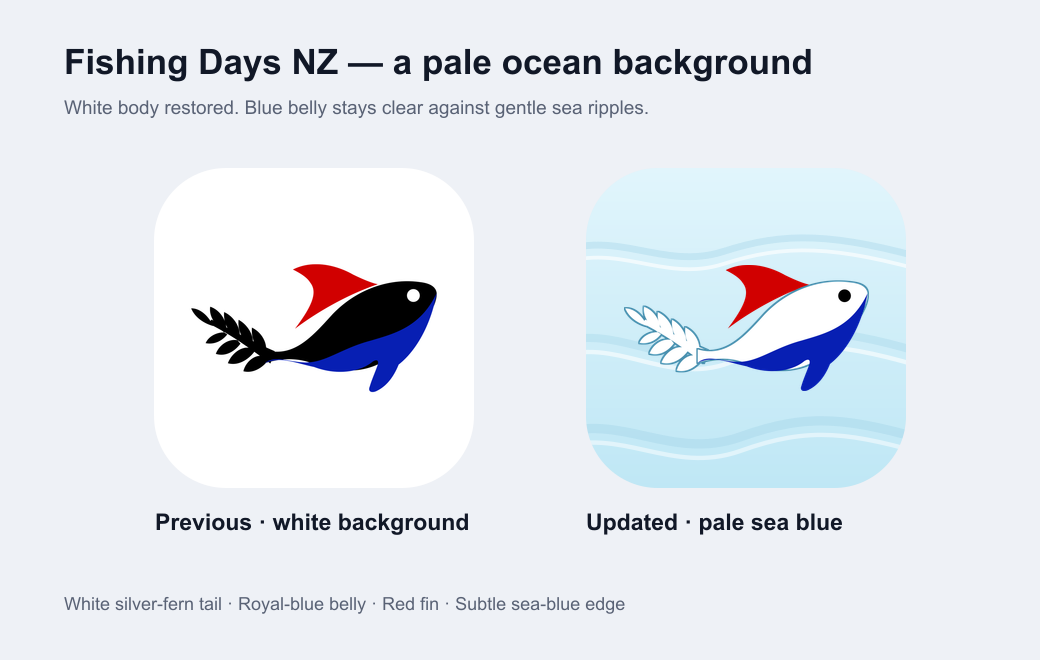
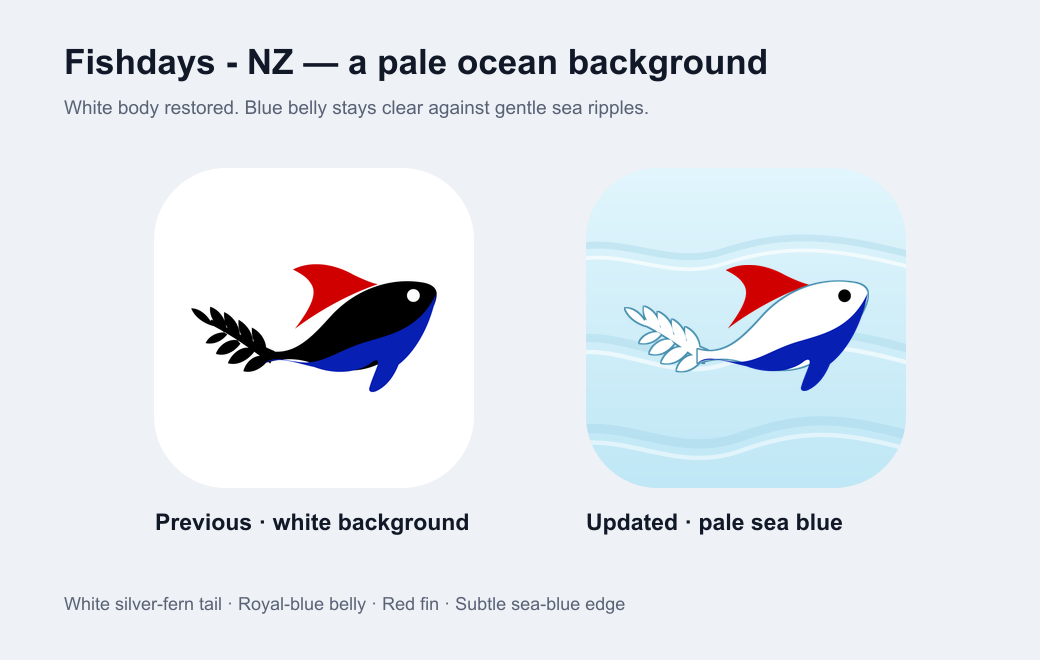
Rename app to Fishdays - NZ

Changed region(s): [[0.1231, 0.0606, 0.8, 0.1212]]

diff --git a/server/fishial-proxy/src/privacy.ts b/server/fishial-proxy/src/privacy.ts
@@ -1,6 +1,6 @@
 import type { Env } from "./index";
 
-const genericNotice = "If a Fishing Days NZ account uses that email, a deletion link will be sent. Check your inbox, including spam. The link expires in 24 hours.";
+const genericNotice = "If a Fishdays - NZ account uses that email, a deletion link will be sent. Check your inbox, including spam. The link expires in 24 hours.";
 const deletionDetails = "Deletion permanently removes your profile, sign-in connections, sessions, feedback and account-linked usage records from our live database. You cannot undo it. It does not delete your Google or Apple account or photos saved on your phone. Cloudflare database recovery copies can retain deleted records for up to 30 days. Provider security and abuse-prevention records follow their own retention rules.";
 
 function escapeHtml(value: string): string {
@@ -8,7 +8,7 @@ function escapeHtml(value: string): string {
 }
 
 function page(title: string, body: string, status = 200): Response {
-  return new Response(`<!doctype html><html lang="en"><head><meta charset="utf-8"><meta name="viewport" content="width=device-width,initial-scale=1"><title>${escapeHtml(title)} · Fishing Days NZ</title><style>body{font:17px/1.6 system-ui,sans-serif;color:#172235;background:#f6f8fc;margin:0;padding:32px 18px}main{max-width:760px;margin:auto;background:white;padding:28px;border-radius:16px}h1,h2{line-height:1.3}a{color:#315de0}input,button{font:inherit;padding:12px;border-radius:8px;box-sizing:border-box}input[type=email]{display:block;width:100%;margin:8px 0 20px;border:1px solid #8490a4}button{background:#315de0;color:white;border:0;cursor:pointer}label{display:block;margin:16px 0}nav{display:flex;gap:24px;flex-wrap:wrap}small{color:#536179}</style></head><body><main><nav><a href="/privacy">Privacy policy</a><a href="/delete-account">Delete account</a></nav><h1>${escapeHtml(title)}</h1>${body}</main></body></html>`, {
+  return new Response(`<!doctype html><html lang="en"><head><meta charset="utf-8"><meta name="viewport" content="width=device-width,initial-scale=1"><title>${escapeHtml(title)} · Fishdays - NZ</title><style>body{font:17px/1.6 system-ui,sans-serif;color:#172235;background:#f6f8fc;margin:0;padding:32px 18px}main{max-width:760px;margin:auto;background:white;padding:28px;border-radius:16px}h1,h2{line-height:1.3}a{color:#315de0}input,button{font:inherit;padding:12px;border-radius:8px;box-sizing:border-box}input[type=email]{display:block;width:100%;margin:8px 0 20px;border:1px solid #8490a4}button{background:#315de0;color:white;border:0;cursor:pointer}label{display:block;margin:16px 0}nav{display:flex;gap:24px;flex-wrap:wrap}small{color:#536179}</style></head><body><main><nav><a href="/privacy">Privacy policy</a><a href="/delete-account">Delete account</a></nav><h1>${escapeHtml(title)}</h1>${body}</main></body></html>`, {
     status,
     headers: {
       "content-type": "text/html; charset=utf-8", "cache-control": "no-store",
@@ -24,9 +24,9 @@ export function privacyPolicy(env: Env): Response {
   if (!name || !email || !/^[^\s@]+@[^\s@]+\.[^\s@]+$/.test(email)) {
     return page("Privacy policy unavailable", "<p>The publisher must configure a developer name and support email before this service is released.</p>", 503);
   }
-  return page("Fishing Days NZ privacy policy", `
+  return page("Fishdays - NZ privacy policy", `
     <p><small>Updated 5 October 2026</small></p>
-    <p>Fishing Days NZ is operated by ${escapeHtml(name)}, an individual developer. For privacy questions, access or correction requests, or help deleting data, contact <a href="mailto:${escapeHtml(email)}">${escapeHtml(email)}</a>.</p>
+    <p>Fishdays - NZ is operated by ${escapeHtml(name)}, an individual developer. For privacy questions, access or correction requests, or help deleting data, contact <a href="mailto:${escapeHtml(email)}">${escapeHtml(email)}</a>.</p>
     <h2>Accounts and feedback</h2><p>We collect your email, optional display name, country code, account identifier, sign-in connections and feedback to provide your account and respond to problems. Passwords are stored as salted hashes. Google or Apple sign-in supplies a provider identifier, verified email and, when available, your name. We do not receive your Google or Apple password. Cloudflare hosts the API and database; Resend sends account confirmation and deletion emails.</p>
     <h2>Location, weather and maps</h2><p>Location access is optional and used while you use the app to find nearby places, tides and rules. You can choose places manually or revoke access in Android settings. Coordinates for places you view or search are sent to Open-Meteo for weather and sea forecasts. Map tiles and styles come from OpenFreeMap and LINZ; those services receive the map areas requested and connection information such as your IP address. LINZ also supplies tide predictions. Your precise coordinates are not included in fish-photo requests to our API.</p>
     <h2>Fish photos and AI</h2><p>On Android, only a photo you choose and explicitly agree to upload is sent through Cloudflare to OpenAI for fish identification. Android uploads a JPEG without the original photo metadata. We do not save the image or identification result in our account database. OpenAI Responses storage is disabled for these requests, but provider abuse-monitoring records can remain for up to 30 days or longer where required for legal or safety reasons. Do not upload photos containing people or private information. Identification is an AI suggestion and can be wrong. Camera permission is optional; the system photo picker gives access only to selected photos.</p>
@@ -34,7 +34,7 @@ export function privacyPolicy(env: Env): Response {
     <h2>Retention and deletion</h2><p>Profiles and sign-in connections remain until account deletion. Sessions expire after 30 days, email confirmation and deletion links after 24 hours, and OAuth handoffs within minutes. Service events are removed after 90 days and feedback after 365 days by daily cleanup. Firebase retention is controlled by the publisher's Analytics configuration; contact us to request help with provider-held data. Provider email delivery and infrastructure security records follow provider retention policies.</p>
     <p>${escapeHtml(deletionDetails)}</p><p>Delete immediately in the Android app through More → Account → Delete account, or <a href="/delete-account">request deletion here without installing the app</a>. The web route verifies access to your account email and asks for confirmation before deletion. Contact us if you cannot access that inbox. Photos already in your gallery and device preferences can be removed on your device. Deleting an account resets optional Android analytics when performed in the app; provider-held records may need a separate request to us.</p>
     <h2>Security and your choices</h2><p>Data is transmitted using HTTPS. The Android app stores session credentials encrypted using Android Keystore and excludes them from backup. Core planning, maps, tides and rules can be used without an account. You may ask us to access or correct your information, or request deletion of particular data using the contact above. Providers may process information outside New Zealand. We update this policy when our data practices change.</p>
-    <h2>Independent fishing information</h2><p>Fishing Days NZ is independent and is not affiliated with or endorsed by the New Zealand Government, MPI or LINZ. Rule summaries use <a href="https://www.mpi.govt.nz/fishing-aquaculture/recreational-fishing/fishing-rules/">official MPI information</a>. Always check current official rules and local restrictions before fishing.</p>`);
+    <h2>Independent fishing information</h2><p>Fishdays - NZ is independent and is not affiliated with or endorsed by the New Zealand Government, MPI or LINZ. Rule summaries use <a href="https://www.mpi.govt.nz/fishing-aquaculture/recreational-fishing/fishing-rules/">official MPI information</a>. Always check current official rules and local restrictions before fishing.</p>`);
 }
 
 async function hash(value: string): Promise<string> {
@@ -70,7 +70,7 @@ export async function handlePrivacyRoute(request: Request, env: Env): Promise<Re
     if (Number(request.headers.get("content-length") || 0) > 4096) return page("Request too large", "<p>Use the deletion form.</p>", 413);
   }
   if (url.pathname === "/delete-account") {
-    if (request.method === "GET") return page("Delete your Fishing Days NZ account", `<p>${escapeHtml(deletionDetails)}</p><p>You can request deletion without installing the app or remembering your password. Enter the email used for your account, including your Apple private relay address if applicable. We send a secure link; you then confirm deletion. If you cannot access your inbox, use the support contact in our <a href="/privacy">privacy policy</a>.</p><form method="post" action="/delete-account"><label for="email">Account email</label><input id="email" name="email" type="email" maxlength="254" required autocomplete="email"><button>Send deletion link</button></form>`);
+    if (request.method === "GET") return page("Delete your Fishdays - NZ account", `<p>${escapeHtml(deletionDetails)}</p><p>You can request deletion without installing the app or remembering your password. Enter the email used for your account, including your Apple private relay address if applicable. We send a secure link; you then confirm deletion. If you cannot access your inbox, use the support contact in our <a href="/privacy">privacy policy</a>.</p><form method="post" action="/delete-account"><label for="email">Account email</label><input id="email" name="email" type="email" maxlength="254" required autocomplete="email"><button>Send deletion link</button></form>`);
     const form = await request.formData().catch(() => null);
     const email = String(form?.get("email") || "").trim().toLowerCase();
     if (email.length > 254 || !/^[^\s@]+@[^\s@]+\.[^\s@]+$/.test(email)) return page("Check your email address", "<p>Enter a valid email on the <a href=\"/delete-account\">deletion form</a>.</p>", 400);
@@ -85,7 +85,7 @@ export async function handlePrivacyRoute(request: Request, env: Env): Promise<Re
         const deletionUrl = `${env.AUTH_BASE_URL || url.origin}/delete-account/confirm?token=${token}`;
         const sent = await fetch("https://api.resend.com/emails", {
           method: "POST", headers: { authorization: `Bearer ${env.RESEND_API_KEY}`, "content-type": "application/json" },
-          body: JSON.stringify({ from: env.ACCOUNT_EMAIL_FROM, to: [account.email], subject: "Delete your Fishing Days NZ account", text: `Someone requested deletion of your Fishing Days NZ account. To review and confirm: ${deletionUrl}\n\n${deletionDetails}\n\nThe link expires in 24 hours. If you did not request deletion, ignore this email; your account will remain active.` }),
+          body: JSON.stringify({ from: env.ACCOUNT_EMAIL_FROM, to: [account.email], subject: "Delete your Fishdays - NZ account", text: `Someone requested deletion of your Fishdays - NZ account. To review and confirm: ${deletionUrl}\n\n${deletionDetails}\n\nThe link expires in 24 hours. If you did not request deletion, ignore this email; your account will remain active.` }),
         }).catch(() => null);
         if (!sent?.ok) {
           await env.RULES_DB.prepare("DELETE FROM account_deletion_tokens WHERE token_hash = ?").bind(tokenHash).run();
@@ -104,5 +104,5 @@ export async function handlePrivacyRoute(request: Request, env: Env): Promise<Re
   if (request.method === "GET") return page("Confirm account deletion", `<p>${escapeHtml(deletionDetails)}</p><form method="post" action="/delete-account/confirm"><input name="token" type="hidden" value="${token}"><label><input type="checkbox" name="confirm" value="delete" required> I understand and want to permanently delete my account.</label><button>Delete my account permanently</button></form><p><a href="/privacy">Cancel and view privacy policy</a></p>`);
   if (form?.get("confirm") !== "delete") return page("Confirmation required", "<p>Confirm deletion using the link in your email.</p>", 400);
   await deleteAccountData(env, row.user_id);
-  return page("Account deleted", "<p>Your Fishing Days NZ account and associated data have been removed from our live database. You can close this page.</p>");
+  return page("Account deleted", "<p>Your Fishdays - NZ account and associated data have been removed from our live database. You can close this page.</p>");
 }

diff --git a/server/fishial-proxy/src/index.ts b/server/fishial-proxy/src/index.ts
@@ -140,7 +140,7 @@ async function verifyEmail(request: Request, env: Env): Promise<Response> {
   ]);
   await recordAccountEvent(env, row.id, "email_verified", null, "web");
   if (contentType.includes("application/json")) return json({ verified: true, message: "Your email is confirmed. Sign in to continue." });
-  return new Response(verificationHtml("Your email is confirmed. Return to Fishing Days and sign in to continue.", true), { headers: htmlHeaders() });
+  return new Response(verificationHtml("Your email is confirmed. Return to Fishdays - NZ and sign in to continue.", true), { headers: htmlHeaders() });
 }
 
 async function issueVerificationEmail(request: Request, env: Env, userId: string, email: string): Promise<boolean> {
@@ -162,9 +162,9 @@ async function issueVerificationEmail(request: Request, env: Env, userId: string
     body: JSON.stringify({
       from: env.ACCOUNT_EMAIL_FROM,
       to: [email],
-      subject: "Confirm your Fishing Days NZ account",
-      html: `<div style="font-family:Arial,sans-serif;max-width:560px;margin:auto;color:#15323d"><h1 style="color:#082c3c">Confirm your email</h1><p>Tap the button below to activate your Fishing Days NZ account. This link expires in 24 hours.</p><p><a href="${verifyUrl}" style="background:#087f8c;color:white;padding:13px 18px;border-radius:8px;text-decoration:none;display:inline-block">Confirm email</a></p><p>If you didn’t create a Fishing Days account, you can ignore this email.</p></div>`,
-      text: `Confirm your Fishing Days NZ account: ${verifyUrl}\nThis link expires in 24 hours.`,
+      subject: "Confirm your Fishdays - NZ account",
+      html: `<div style="font-family:Arial,sans-serif;max-width:560px;margin:auto;color:#15323d"><h1 style="color:#082c3c">Confirm your email</h1><p>Tap the button below to activate your Fishdays - NZ account. This link expires in 24 hours.</p><p><a href="${verifyUrl}" style="background:#087f8c;color:white;padding:13px 18px;border-radius:8px;text-decoration:none;display:inline-block">Confirm email</a></p><p>If you didn’t create a Fishdays - NZ account, you can ignore this email.</p></div>`,
+      text: `Confirm your Fishdays - NZ account: ${verifyUrl}\nThis link expires in 24 hours.`,
     }),
   }).catch(() => null);
   if (!response?.ok) {
@@ -177,12 +177,12 @@ async function issueVerificationEmail(request: Request, env: Env, userId: string
 }
 
 function verificationFormHtml(token: string): string {
-  return `<!doctype html><html lang="en"><head><meta charset="utf-8"><meta name="viewport" content="width=device-width,initial-scale=1"><title>Confirm Fishing Days account</title></head><body style="font-family:Arial,sans-serif;background:#f4f7f5;color:#15323d;margin:0;padding:48px 18px"><main style="background:white;border-radius:14px;margin:auto;max-width:520px;padding:32px"><h1 style="color:#082c3c">Confirm your Fishing Days email</h1><p>Press the button to activate your account. The link expires after 24 hours.</p><form method="post" action="/v1/auth/verify-email"><input type="hidden" name="token" value="${token}"><button style="background:#087f8c;border:0;border-radius:8px;color:white;font-size:16px;padding:13px 18px">Confirm email</button></form></main></body></html>`;
+  return `<!doctype html><html lang="en"><head><meta charset="utf-8"><meta name="viewport" content="width=device-width,initial-scale=1"><title>Confirm Fishdays - NZ account</title></head><body style="font-family:Arial,sans-serif;background:#f4f7f5;color:#15323d;margin:0;padding:48px 18px"><main style="background:white;border-radius:14px;margin:auto;max-width:520px;padding:32px"><h1 style="color:#082c3c">Confirm your Fishdays - NZ email</h1><p>Press the button to activate your account. The link expires after 24 hours.</p><form method="post" action="/v1/auth/verify-email"><input type="hidden" name="token" value="${token}"><button style="background:#087f8c;border:0;border-radius:8px;color:white;font-size:16px;padding:13px 18px">Confirm email</button></form></main></body></html>`;
 }
 
 function verificationHtml(message: string, success: boolean): string {
   const color = success ? "#087f8c" : "#a43d25";
-  return `<!doctype html><html lang="en"><head><meta charset="utf-8"><meta name="viewport" content="width=device-width,initial-scale=1"><title>Fishing Days email confirmation</title></head><body style="font-family:Arial,sans-serif;background:#f4f7f5;color:#15323d;margin:0;padding:48px 18px"><main style="background:white;border-radius:14px;margin:auto;max-width:520px;padding:32px"><h1 style="color:${color}">${success ? "Email confirmed" : "Confirmation needed"}</h1><p>${message}</p></main></body></html>`;
+  return `<!doctype html><html lang="en"><head><meta charset="utf-8"><meta name="viewport" content="width=device-width,initial-scale=1"><title>Fishdays - NZ email confirmation</title></head><body style="font-family:Arial,sans-serif;background:#f4f7f5;color:#15323d;margin:0;padding:48px 18px"><main style="background:white;border-radius:14px;margin:auto;max-width:520px;padding:32px"><h1 style="color:${color}">${success ? "Email confirmed" : "Confirmation needed"}</h1><p>${message}</p></main></body></html>`;
 }
 
 function htmlHeaders(): HeadersInit { return { "content-type": "text/html; charset=utf-8", "cache-control": "no-store", "referrer-policy": "no-referrer", "x-content-type-options": "nosniff" }; }

diff --git a/iosApp/CatchCheckNZ/Views/CatchCheckRootView.swift b/iosApp/CatchCheckNZ/Views/CatchCheckRootView.swift
@@ -190,7 +190,7 @@ private struct TermsPrivacyView: View {
         ScrollView {
             VStack(alignment: .leading, spacing: 18) {
                 Text("Terms & privacy").font(.largeTitle.bold()).foregroundStyle(CatchCheckColor.navy)
-                Text("A short guide to using Fishing Days NZ and understanding the information it uses.")
+                Text("A short guide to using Fishdays - NZ and understanding the information it uses.")
                     .foregroundStyle(.secondary)
                 Card {
                     Text("Terms of use").font(.title2.bold()).foregroundStyle(CatchCheckColor.navy)
@@ -200,8 +200,8 @@ private struct TermsPrivacyView: View {
                 Card {
                     Text("Privacy").font(.title2.bold()).foregroundStyle(CatchCheckColor.navy)
                     Text("If you allow location access, the app uses your position to centre the map and find nearby information. You can change location permission in your phone’s settings.")
-                    Text("If you choose a fish photo, it is sent through the Fishing Days service to an image analysis provider for identification.")
-                    Text("If you sign in or send feedback, your account details and feedback are sent to the Fishing Days service. Signing out removes the saved session from this device.")
+                    Text("If you choose a fish photo, it is sent through the Fishdays - NZ service to an image analysis provider for identification.")
+                    Text("If you sign in or send feedback, your account details and feedback are sent to the Fishdays - NZ service. Signing out removes the saved session from this device.")
                 }
             }.padding(20)
         }
@@ -228,7 +228,7 @@ private struct FeedbackView: View {
                 if vm.account == nil {
                     Card {
                         Text("Sign in to send feedback").font(.title3.bold()).foregroundStyle(CatchCheckColor.navy)
-                        Text("Feedback is linked to your Fishing Days account so we can review it.")
+                        Text("Feedback is linked to your Fishdays - NZ account so we can review it.")
                             .foregroundStyle(.secondary)
                         if vm.accountLoading {
                             ProgressView("Checking your account…")
@@ -607,14 +607,14 @@ struct AccountView: View {
                             .frame(width: 62, height: 62)
                             .background(CatchCheckColor.hero, in: RoundedRectangle(cornerRadius: 20))
                         VStack(alignment: .leading, spacing: 4) {
-                            Text("FISHING DAYS NZ").font(.caption.weight(.bold)).tracking(1.5).foregroundStyle(CatchCheckColor.orange)
+                            Text("Fishdays - NZ").font(.caption.weight(.bold)).tracking(1.5).foregroundStyle(CatchCheckColor.orange)
                             Text(vm.account == nil ? "Your fishing account" : "Welcome back")
                                 .font(.title2.bold()).foregroundStyle(CatchCheckColor.navy)
                         }
                         Spacer(minLength: 0)
                     }
                     if vm.account == nil {
-                        Text("Save your profile and manage your Fishing Days account in one place.")
+                        Text("Save your profile and manage your Fishdays - NZ account in one place.")
                             .font(.subheadline).foregroundStyle(.secondary).fixedSize(horizontal: false, vertical: true)
                     }
                     if let notice = vm.accountNotice {
@@ -675,7 +675,7 @@ struct AccountView: View {
                                 Image(systemName: "lock.shield.fill").foregroundStyle(CatchCheckColor.orange)
                                 Text("Secure access").font(.headline).foregroundStyle(CatchCheckColor.navy)
                             }
-                            Text("Create an account or sign in to manage your Fishing Days profile.")
+                            Text("Create an account or sign in to manage your Fishdays - NZ profile.")
                                 .font(.subheadline).foregroundStyle(.secondary)
                             socialSignInButtons
                             Text("Or use your email").font(.caption).foregroundStyle(.secondary)

diff --git a/app/src/main/java/nz/fishingnz/app/ui/CatchCheckApp.kt b/app/src/main/java/nz/fishingnz/app/ui/CatchCheckApp.kt
@@ -223,7 +223,7 @@ private fun TermsPrivacyScreen(modifier: Modifier) {
     var analyticsEnabled by remember { mutableStateOf(PrivacyPreferences.analyticsEnabled()) }
     Column(modifier.fillMaxSize().verticalScroll(rememberScrollState()).padding(20.dp), verticalArrangement = Arrangement.spacedBy(16.dp)) {
         Text("Terms & privacy", style = MaterialTheme.typography.headlineMedium, fontWeight = FontWeight.Bold)
-        Text("A short guide to using Fishing Days NZ and understanding the information it uses.", color = MaterialTheme.colorScheme.onSurfaceVariant)
+        Text("A short guide to using Fishdays - NZ and understanding the information it uses.", color = MaterialTheme.colorScheme.onSurfaceVariant)
         Card(shape = RoundedCornerShape(20.dp), colors = CardDefaults.cardColors(containerColor = MaterialTheme.colorScheme.surface)) {
             Column(Modifier.fillMaxWidth().padding(18.dp), verticalArrangement = Arrangement.spacedBy(10.dp)) {
                 Text("Terms of use", style = MaterialTheme.typography.titleLarge, fontWeight = FontWeight.Bold)
@@ -236,7 +236,7 @@ private fun TermsPrivacyScreen(modifier: Modifier) {
                 Text("Privacy", style = MaterialTheme.typography.titleLarge, fontWeight = FontWeight.Bold)
                 Text("If you allow location access, the app uses your position to centre the map and find nearby information. You can change location permission in your phone’s settings.")
                 Text("A photo is uploaded only after you agree. It passes through Cloudflare to OpenAI for an AI fish suggestion. Original photo metadata is removed. OpenAI response storage is disabled; provider security records can remain for up to 30 days, or longer where legally required.")
-                Text("If you sign in or send feedback, your account details and feedback are sent to the Fishing Days service. Signing out removes the saved session from this device.")
+                Text("If you sign in or send feedback, your account details and feedback are sent to the Fishdays - NZ service. Signing out removes the saved session from this device.")
                 Text("Weather requests send coordinates to Open-Meteo. Map and tide providers receive connection information and the places you request. You can choose locations manually.")
                 Text("Publisher: Tristan · tc199558@gmail.com")
                 TextButton(onClick = { uriHandler.openUri(PrivacyLinks.policy) }) { Text("Read full privacy policy") }
@@ -244,14 +244,14 @@ private fun TermsPrivacyScreen(modifier: Modifier) {
                 Row(verticalAlignment = Alignment.CenterVertically) {
                     Column(Modifier.weight(1f)) {
                         Text("Optional usage analytics", fontWeight = FontWeight.SemiBold)
-                        Text("Share app interactions, device information, app-instance identifiers and approximate location from your IP address with Firebase, and signed-in feature usage with Fishing Days. Off by default. Turning this off resets the analytics identifier.", style = MaterialTheme.typography.bodySmall)
+                        Text("Share app interactions, device information, app-instance identifiers and approximate location from your IP address with Firebase, and signed-in feature usage with Fishdays - NZ. Off by default. Turning this off resets the analytics identifier.", style = MaterialTheme.typography.bodySmall)
                     }
                     Switch(checked = analyticsEnabled, onCheckedChange = {
                         analyticsEnabled = it
                         PrivacyPreferences.setAnalyticsEnabled(it)
                     })
                 }
-                Text("Fishing Days NZ is independent and is not affiliated with or endorsed by the New Zealand Government, MPI or LINZ.")
+                Text("Fishdays - NZ is independent and is not affiliated with or endorsed by the New Zealand Government, MPI or LINZ.")
             }
         }
     }

diff --git a/app/src/main/java/nz/fishingnz/app/ui/Screens.kt b/app/src/main/java/nz/fishingnz/app/ui/Screens.kt
@@ -483,7 +483,7 @@ private fun showCustomDateRange(context: android.content.Context, selectedStart:
         AlertDialog(onDismissRequest = { photoAwaitingConsent = null },
             title = { Text("Send this photo for AI identification?") },
             text = { Column(verticalArrangement = Arrangement.spacedBy(8.dp)) {
-                Text("Your selected photo will be sent through Fishing Days’ Cloudflare service to OpenAI to suggest a fish species. Original photo metadata is removed. We do not save the photo in your account. OpenAI response storage is disabled, but security records can remain for up to 30 days or longer where legally required.")
+                Text("Your selected photo will be sent through the Fishdays - NZ Cloudflare service to OpenAI to suggest a fish species. Original photo metadata is removed. We do not save the photo in your account. OpenAI response storage is disabled, but security records can remain for up to 30 days or longer where legally required.")
                 Text("Avoid photos containing people or private information. You can cancel and keep using the other tools.")
                 TextButton(onClick = { uriHandler.openUri(nz.fishingnz.app.data.PrivacyLinks.policy) }) { Text("Privacy policy") }
             } },
@@ -570,7 +570,7 @@ private fun showCustomDateRange(context: android.content.Context, selectedStart:
     }
     Column(modifier.fillMaxSize().imePadding().verticalScroll(rememberScrollState()).padding(20.dp), verticalArrangement = Arrangement.spacedBy(14.dp)) {
         Text("Your account", style = MaterialTheme.typography.headlineMedium, fontWeight = FontWeight.Bold, color = Navy)
-        Text("Save your details and manage your Fishing Days profile.", color = MaterialTheme.colorScheme.onSurfaceVariant, style = MaterialTheme.typography.bodyMedium)
+        Text("Save your details and manage your Fishdays - NZ profile.", color = MaterialTheme.colorScheme.onSurfaceVariant, style = MaterialTheme.typography.bodyMedium)
         s.accountNotice?.let { Card(colors = CardDefaults.cardColors(Seafoam), shape = RoundedCornerShape(12.dp)) { Text(it, Modifier.fillMaxWidth().padding(14.dp), color = Navy) } }
         s.accountError?.let { Card(colors = CardDefaults.cardColors(Color(0xFFFFEBE7)), shape = RoundedCornerShape(12.dp)) {
             Column(Modifier.fillMaxWidth().padding(14.dp)) {
@@ -657,7 +657,7 @@ private fun showCustomDateRange(context: android.content.Context, selectedStart:
             Card(colors = CardDefaults.cardColors(MaterialTheme.colorScheme.surface), shape = RoundedCornerShape(20.dp)) {
                 Column(Modifier.fillMaxWidth().padding(18.dp), verticalArrangement = Arrangement.spacedBy(12.dp)) {
                     Text("Sign in to send feedback", style = MaterialTheme.typography.titleMedium, fontWeight = FontWeight.Bold)
-                    Text("Feedback is linked to your Fishing Days account so we can review it.", color = MaterialTheme.colorScheme.onSurfaceVariant)
+                    Text("Feedback is linked to your Fishdays - NZ account so we can review it.", color = MaterialTheme.colorScheme.onSurfaceVariant)
                     Button(onClick = { vm.selectTab(5) }) { Text("Go to account") }
                 }
             }

diff --git a/web/src/app/admin/page.tsx b/web/src/app/admin/page.tsx
@@ -102,12 +102,12 @@ export default function AdminPage() {
 
   return (
     <main className="cms-shell">
-      <header className="site-header cms-header"><Link className="brand" href="/admin"><NextImage className="brand-mark" src="/fishing-days-icon.png" width={36} height={36} alt="" unoptimized />Fishing Days NZ</Link><span className="back-link">Admin workspace</span></header>
+      <header className="site-header cms-header"><Link className="brand" href="/admin"><NextImage className="brand-mark" src="/fishing-days-icon.png" width={36} height={36} alt="" unoptimized />Fishdays - NZ</Link><span className="back-link">Admin workspace</span></header>
       <section className="cms-content">
-        <div className="cms-heading"><div><p className="kicker">Fishing Days operations</p><h1>Account CMS</h1><p>User, plan, feedback, and feature activity for the last 30 days.</p></div>{connected && <div className={styles.actions}><button className="signout-button" disabled={busy || loading} onClick={() => void refresh(usersOffset, feedbackOffset, appliedSearch)}>Refresh</button><button className="signout-button" disabled={busy} onClick={() => void signOut()}>Sign out</button></div>}</div>
+        <div className="cms-heading"><div><p className="kicker">Fishdays - NZ operations</p><h1>Account CMS</h1><p>User, plan, feedback, and feature activity for the last 30 days.</p></div>{connected && <div className={styles.actions}><button className="signout-button" disabled={busy || loading} onClick={() => void refresh(usersOffset, feedbackOffset, appliedSearch)}>Refresh</button><button className="signout-button" disabled={busy} onClick={() => void signOut()}>Sign out</button></div>}</div>
         {error && <p className="form-error" role="alert">{error}</p>}
         {loading && !connected && <div className="cms-login" role="status"><h2>Checking your session…</h2></div>}
-        {!loading && !connected && <form className="cms-login" onSubmit={signIn}><h2>Administrator sign in</h2><p>Use the account admin token configured on the Fishing Days Worker.</p><label>Admin token<input type="password" autoComplete="off" required value={token} onChange={(event) => setToken(event.target.value)} /></label><button className="button button-primary" disabled={busy}>{busy ? "Checking…" : "Open CMS"}</button></form>}
+        {!loading && !connected && <form className="cms-login" onSubmit={signIn}><h2>Administrator sign in</h2><p>Use the account admin token configured on the Fishdays - NZ Worker.</p><label>Admin token<input type="password" autoComplete="off" required value={token} onChange={(event) => setToken(event.target.value)} /></label><button className="button button-primary" disabled={busy}>{busy ? "Checking…" : "Open CMS"}</button></form>}
         {connected && !dashboard && <div className="cms-login" role="status"><h2>{loading ? "Loading dashboard…" : "Dashboard unavailable"}</h2>{!loading && <button className="button button-primary" onClick={() => void refresh()}>Try again</button>}</div>}
         {connected && dashboard && <>
           {loading && <p className={styles.refreshing} role="status">Updating dashboard…</p>}

diff --git a/web-rules/index.html b/web-rules/index.html
@@ -4,7 +4,7 @@
   <meta charset="utf-8">
   <meta name="viewport" content="width=device-width, initial-scale=1">
   <meta name="theme-color" content="#123b43">
-  <title>CatchCheck NZ · Fishing rules</title>
+  <title>Fishdays - NZ · Fishing rules</title>
   <style>
     :root { color-scheme: light; --navy:#123b43; --foam:#dcefe7; --cream:#f7f8f4; --orange:#e4784a; }
     * { box-sizing:border-box }
@@ -47,7 +47,7 @@
   </style>
 </head>
 <body>
-  <header><h1>CatchCheck NZ</h1><p>Fishing rules from Fisheries New Zealand (MPI)</p></header>
+  <header><h1>Fishdays - NZ</h1><p>Fishing rules from Fisheries New Zealand (MPI)</p></header>
   <main>
     <label for="area">Fishing area</label>
     <select id="area">

diff --git a/iosApp/CatchCheckNZ/Views/FeatureViews.swift b/iosApp/CatchCheckNZ/Views/FeatureViews.swift
@@ -809,7 +809,7 @@ struct TripCalendarEditor: UIViewControllerRepresentable {
         let event = EKEvent(eventStore: store)
         event.title = "Fishing at \(trip.name)"
         event.location = "\(trip.name), \(trip.area), New Zealand"
-        event.notes = "Fishing plan from Fishing Days NZ. Check the latest forecast, local access and fishing rules before you go."
+        event.notes = "Fishing plan from Fishdays - NZ. Check the latest forecast, local access and fishing rules before you go."
         let start = trip.startsAt ?? Date().addingTimeInterval(3_600)
         event.startDate = start
         event.endDate = trip.endsAt.flatMap { $0 > start ? $0 : nil } ?? start.addingTimeInterval(7_200)

diff --git a/app/src/main/java/nz/fishingnz/app/ui/TripCalendar.kt b/app/src/main/java/nz/fishingnz/app/ui/TripCalendar.kt
@@ -13,7 +13,7 @@ internal fun openTripInCalendar(context: Context, trip: Recommendation): Boolean
         putExtra(CalendarContract.Events.EVENT_LOCATION, "${trip.name}, ${trip.area}, New Zealand")
         putExtra(
             CalendarContract.Events.DESCRIPTION,
-            "Fishing plan from Fishing Days NZ. Check the latest forecast, local access and fishing rules before you go."
+            "Fishing plan from Fishdays - NZ. Check the latest forecast, local access and fishing rules before you go."
         )
         if (trip.startsAtEpochSeconds > 0 && trip.durationHours > 0) {
             val startMillis = trip.startsAtEpochSeconds * 1_000

diff --git a/web/src/app/layout.tsx b/web/src/app/layout.tsx
@@ -2,8 +2,8 @@ import type { Metadata } from "next";
 import "./globals.css";
 
 export const metadata: Metadata = {
-  title: "Fishing Days NZ | Admin",
-  description: "Fishing Days NZ administrator workspace.",
+  title: "Fishdays - NZ | Admin",
+  description: "Fishdays - NZ administrator workspace.",
 };
 
 export default function RootLayout({ children }: LayoutProps<"/">) {

diff --git a/demo/openai-fish-id/index.html b/demo/openai-fish-id/index.html
@@ -45,7 +45,7 @@
 </head>
 <body>
   <main>
-    <div class="eyebrow">Fishing Days · quick demo</div>
+    <div class="eyebrow">Fishdays - NZ · quick demo</div>
     <h1>What fish is this?</h1>
     <p class="intro">Upload one photo to get a likely species, using the name a New Zealand angler would know.</p>
     <section class="panel" aria-label="Fish photo identification">

diff --git a/backend/app/core/config.py b/backend/app/core/config.py
@@ -4,7 +4,7 @@ from pydantic_settings import BaseSettings, SettingsConfigDict
 
 
 class Settings(BaseSettings):
-    app_name: str = "Fishing Days API"
+    app_name: str = "Fishdays - NZ API"
     app_version: str = "0.1.0"
     api_v1_prefix: str = "/api/v1"
     database_url: str = "postgresql+psycopg://catchcheck:catchcheck@localhost:5432/catchcheck"
